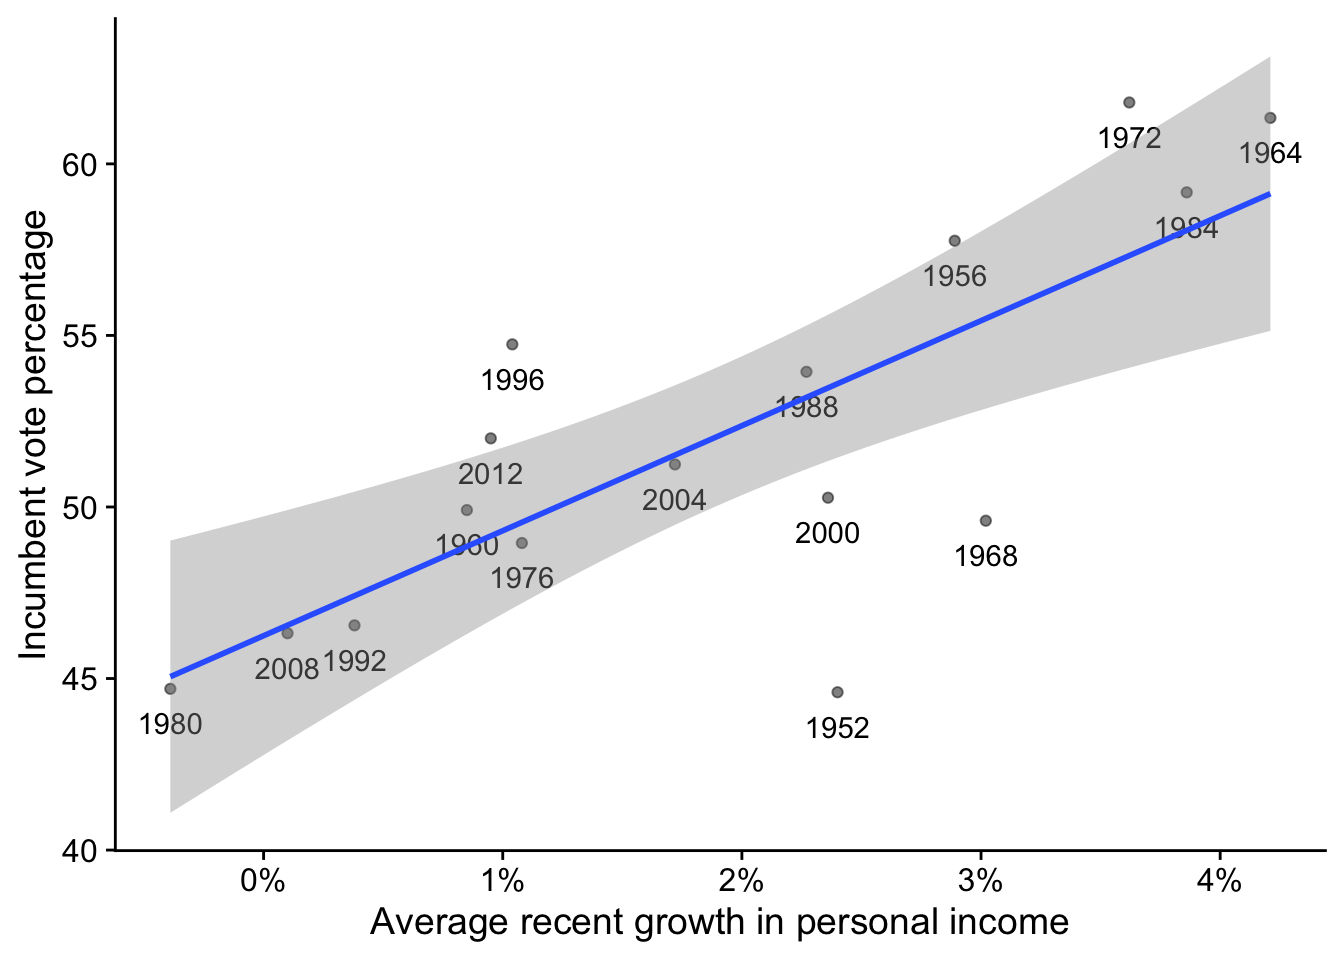
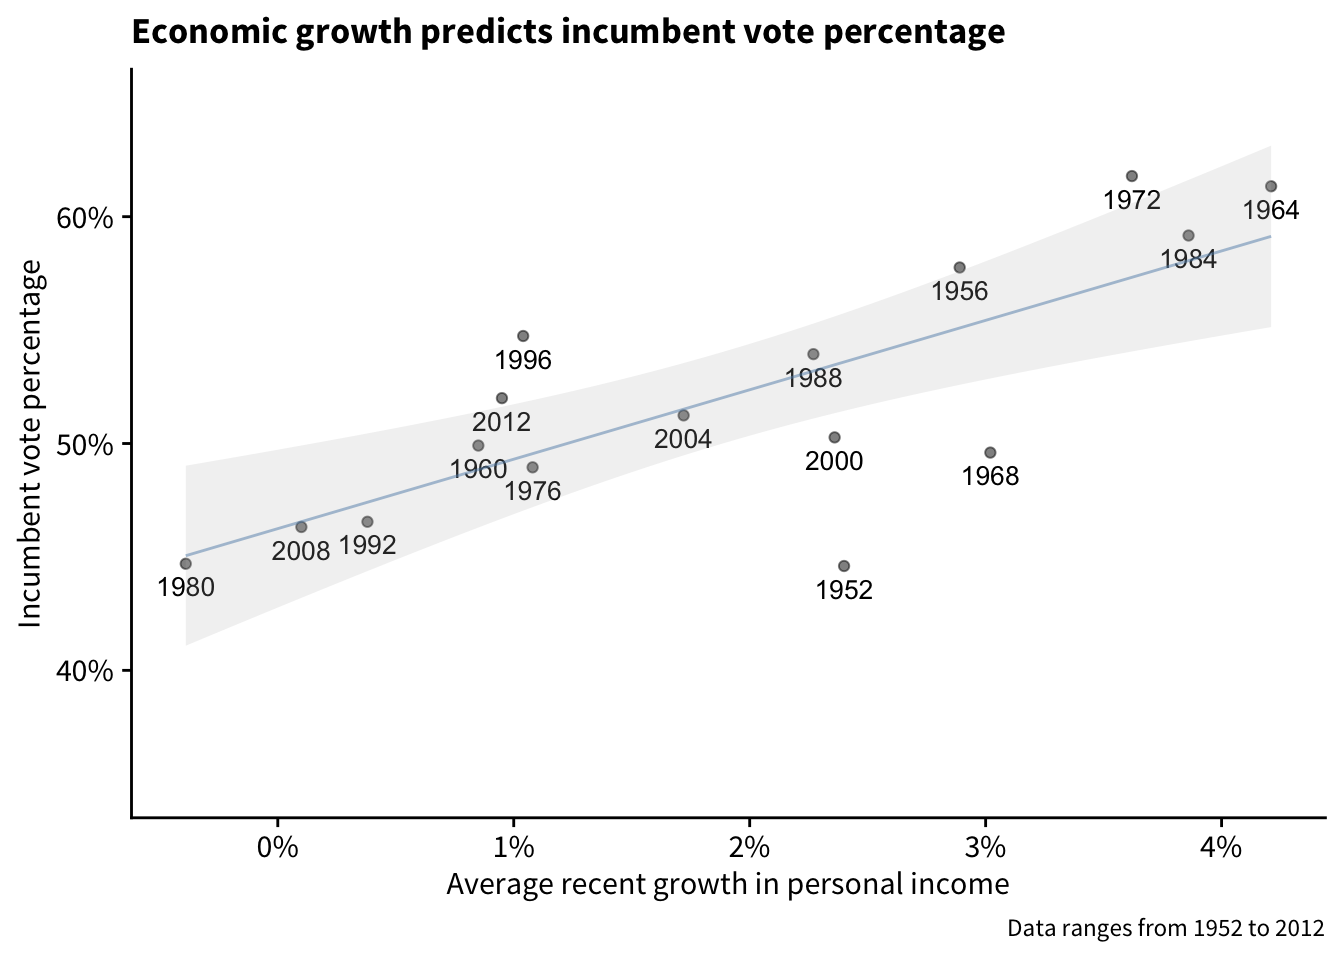
edits

diff --git a/_book/overview.html b/_book/overview.html
@@ -45,25 +45,32 @@
 <span class="header-section-number">2</span> Overview<a class="anchor" aria-label="anchor" href="#overview"><i class="fas fa-link"></i></a>
 </h1>
 <div class="sourceCode" id="cb1"><pre class="downlit sourceCode r">
-<code class="sourceCode R"><span class="kw"><a href="https://rdrr.io/r/base/library.html">library</a></span><span class="op">(</span><span class="va"><a href="http://tidyverse.tidyverse.org">tidyverse</a></span><span class="op">)</span></code></pre></div>
+<code class="sourceCode R"><span class="kw"><a href="https://rdrr.io/r/base/library.html">library</a></span><span class="op">(</span><span class="va"><a href="http://tidyverse.tidyverse.org">tidyverse</a></span><span class="op">)</span>
+<span class="kw"><a href="https://rdrr.io/r/base/library.html">library</a></span><span class="op">(</span><span class="va"><a href="https://github.com/wch/extrafont">extrafont</a></span><span class="op">)</span></code></pre></div>
 <div class="sourceCode" id="cb2"><pre class="downlit sourceCode r">
 <code class="sourceCode R"><span class="co"># Figure 1.1</span>
 
-<span class="va">df</span> <span class="op">&lt;-</span> <span class="fu"><a href="https://rdrr.io/r/utils/read.table.html">read.csv</a></span><span class="op">(</span><span class="st">"~/ROS_notes/ROS-Examples-master/ElectionsEconomy/data/hibbs.dat"</span>, sep <span class="op">=</span> <span class="st">""</span><span class="op">)</span>
+<span class="va">df</span> <span class="op">&lt;-</span> <span class="fu"><a href="https://rdrr.io/r/utils/read.table.html">read.table</a></span><span class="op">(</span><span class="st">"~/ROS_notes/ROS-Examples-master/ElectionsEconomy/data/hibbs.dat"</span>, header<span class="op">=</span><span class="cn">TRUE</span><span class="op">)</span>
 
 <span class="co"># Convert from percentage to decimal</span>
 <span class="va">df</span><span class="op">$</span><span class="va">growth</span> <span class="op">&lt;-</span> <span class="va">df</span><span class="op">$</span><span class="va">growth</span> <span class="op">/</span> <span class="fl">100</span>
+<span class="va">df</span><span class="op">$</span><span class="va">vote</span> <span class="op">&lt;-</span> <span class="va">df</span><span class="op">$</span><span class="va">vote</span> <span class="op">/</span> <span class="fl">100</span>
 
 <span class="va">df</span> <span class="op">%&gt;%</span>
   <span class="fu">ggplot</span><span class="op">(</span><span class="fu">aes</span><span class="op">(</span>x <span class="op">=</span> <span class="va">growth</span>, y <span class="op">=</span> <span class="va">vote</span>, label <span class="op">=</span> <span class="va">year</span><span class="op">)</span><span class="op">)</span> <span class="op">+</span>
   <span class="fu">geom_point</span><span class="op">(</span>alpha <span class="op">=</span> <span class="fl">0.5</span><span class="op">)</span> <span class="op">+</span>
-  <span class="fu">geom_text</span><span class="op">(</span>nudge_y <span class="op">=</span> <span class="op">-</span><span class="fl">1</span><span class="op">)</span> <span class="op">+</span>
-  <span class="fu">geom_smooth</span><span class="op">(</span>method <span class="op">=</span> <span class="st">"lm"</span><span class="op">)</span> <span class="op">+</span>
+  <span class="fu">geom_text</span><span class="op">(</span>nudge_y <span class="op">=</span> <span class="op">-</span><span class="fl">0.01</span>, size<span class="op">=</span><span class="fl">3.5</span><span class="op">)</span> <span class="op">+</span>
+  <span class="fu">stat_smooth</span><span class="op">(</span>geom<span class="op">=</span><span class="st">'line'</span>, alpha<span class="op">=</span><span class="fl">0.5</span>, se<span class="op">=</span><span class="cn">TRUE</span>, method<span class="op">=</span><span class="st">'lm'</span>, color<span class="op">=</span><span class="st">"steelblue"</span><span class="op">)</span> <span class="op">+</span>
+  <span class="fu">stat_smooth</span><span class="op">(</span>geom<span class="op">=</span><span class="st">'ribbon'</span>, method<span class="op">=</span><span class="st">'lm'</span>, alpha<span class="op">=</span><span class="fl">0.2</span>, fill<span class="op">=</span><span class="st">"gray"</span><span class="op">)</span> <span class="op">+</span>
+  <span class="fu">scale_y_continuous</span><span class="op">(</span>labels <span class="op">=</span> <span class="fu">scales</span><span class="fu">::</span><span class="fu"><a href="https://scales.r-lib.org//reference/label_percent.html">percent_format</a></span><span class="op">(</span>accuracy <span class="op">=</span> <span class="fl">1</span><span class="op">)</span>, limits <span class="op">=</span> <span class="fu"><a href="https://rdrr.io/r/base/c.html">c</a></span><span class="op">(</span><span class="fl">0.35</span>, <span class="fl">0.65</span><span class="op">)</span><span class="op">)</span> <span class="op">+</span>
   <span class="fu">scale_x_continuous</span><span class="op">(</span>labels <span class="op">=</span> <span class="fu">scales</span><span class="fu">::</span><span class="fu"><a href="https://scales.r-lib.org//reference/label_percent.html">percent_format</a></span><span class="op">(</span>accuracy <span class="op">=</span> <span class="fl">1</span><span class="op">)</span><span class="op">)</span> <span class="op">+</span>
   <span class="fu">cowplot</span><span class="fu">::</span><span class="fu"><a href="https://wilkelab.org/cowplot/reference/theme_cowplot.html">theme_cowplot</a></span><span class="op">(</span><span class="op">)</span> <span class="op">+</span>
+  <span class="fu">theme</span><span class="op">(</span>text<span class="op">=</span><span class="fu">element_text</span><span class="op">(</span>size<span class="op">=</span><span class="fl">12</span>, family<span class="op">=</span><span class="st">"Source Sans Pro"</span><span class="op">)</span><span class="op">)</span><span class="op">+</span>
   <span class="fu">labs</span><span class="op">(</span>
+    title <span class="op">=</span> <span class="st">"Economic growth predicts incumbent vote percentage"</span>,
     x <span class="op">=</span> <span class="st">"Average recent growth in personal income"</span>,
-    y <span class="op">=</span> <span class="st">"Incumbent vote percentage"</span>
+    y <span class="op">=</span> <span class="st">"Incumbent vote percentage"</span>,
+    caption <span class="op">=</span> <span class="st">"Data ranges from 1952 to 2012"</span>
   <span class="op">)</span></code></pre></div>
 <div class="inline-figure"><img src="introduction_files/figure-html/unnamed-chunk-2-1.png" width="672"></div>
 

diff --git a/_book/introduction.md b/_book/introduction.md
@@ -3,6 +3,7 @@
 
 ```r
 library(tidyverse)
+library(extrafont)
 ```
 
 
@@ -10,21 +11,27 @@ library(tidyverse)
 ```r
 # Figure 1.1
 
-df <- read.csv("~/ROS_notes/ROS-Examples-master/ElectionsEconomy/data/hibbs.dat", sep = "")
+df <- read.table("~/ROS_notes/ROS-Examples-master/ElectionsEconomy/data/hibbs.dat", header=TRUE)
 
 # Convert from percentage to decimal
 df$growth <- df$growth / 100
+df$vote <- df$vote / 100
 
 df %>%
   ggplot(aes(x = growth, y = vote, label = year)) +
   geom_point(alpha = 0.5) +
-  geom_text(nudge_y = -1) +
-  geom_smooth(method = "lm") +
+  geom_text(nudge_y = -0.01, size=3.5) +
+  stat_smooth(geom='line', alpha=0.5, se=TRUE, method='lm', color="steelblue") +
+  stat_smooth(geom='ribbon', method='lm', alpha=0.2, fill="gray") +
+  scale_y_continuous(labels = scales::percent_format(accuracy = 1), limits = c(0.35, 0.65)) +
   scale_x_continuous(labels = scales::percent_format(accuracy = 1)) +
   cowplot::theme_cowplot() +
+  theme(text=element_text(size=12, family="Source Sans Pro"))+
   labs(
+    title = "Economic growth predicts incumbent vote percentage",
     x = "Average recent growth in personal income",
-    y = "Incumbent vote percentage"
+    y = "Incumbent vote percentage",
+    caption = "Data ranges from 1952 to 2012"
   )
 ```
 
